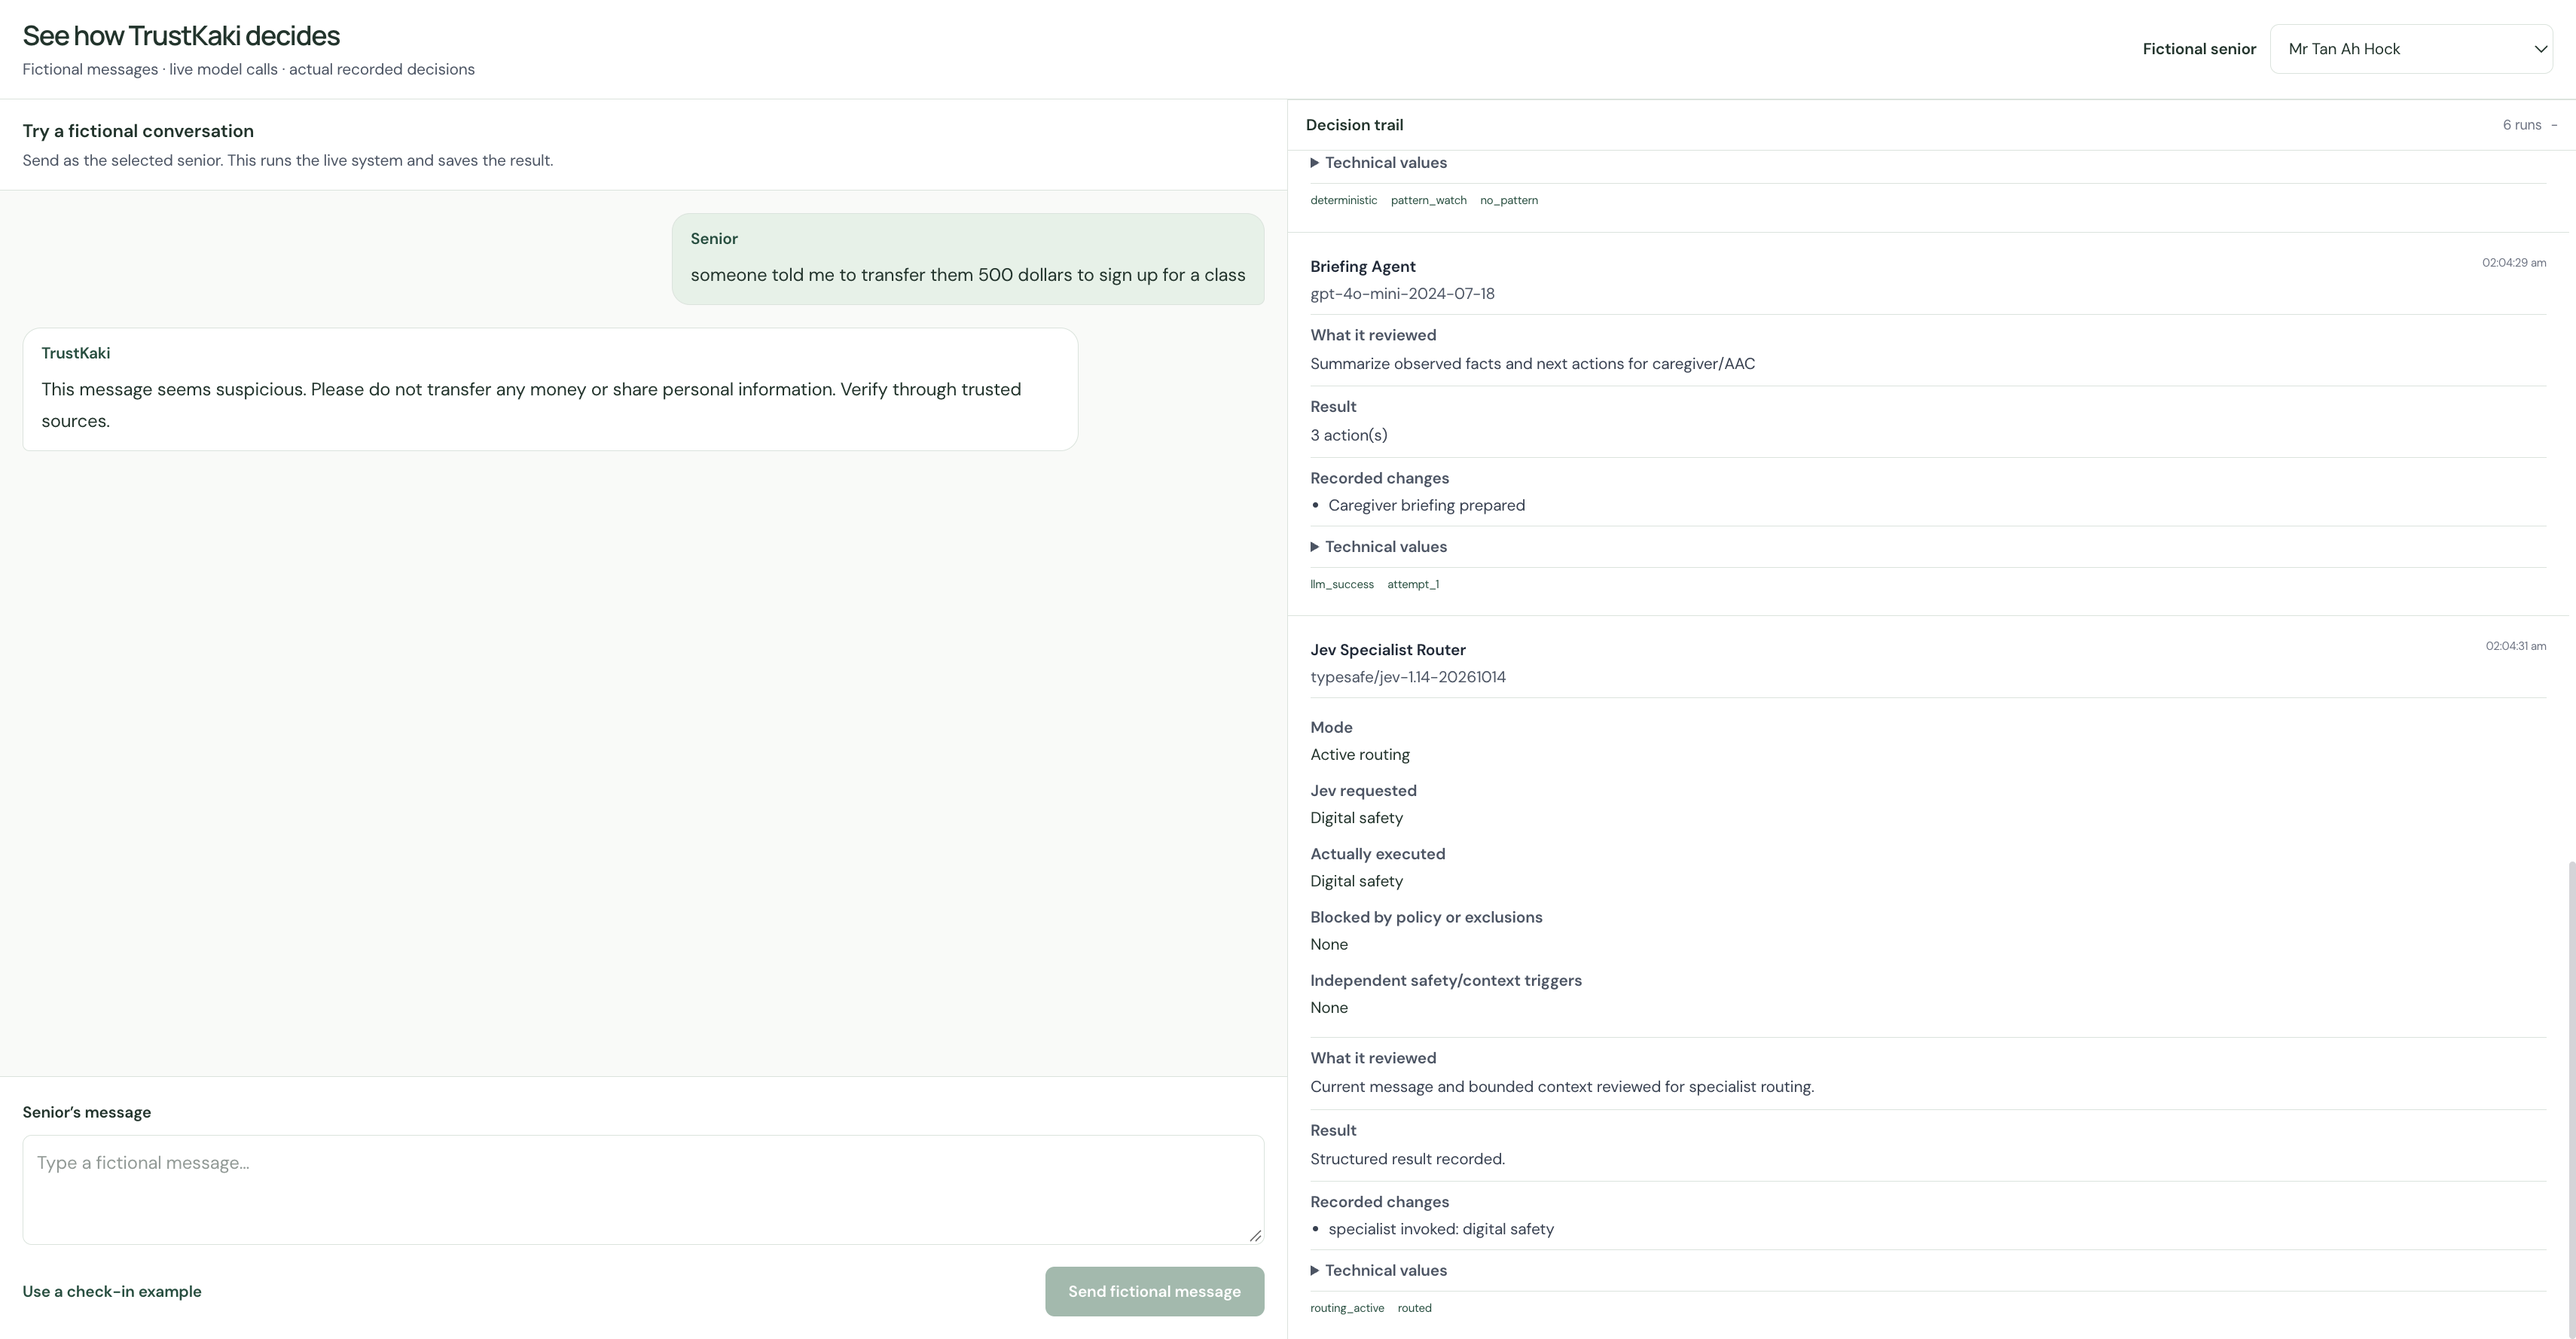
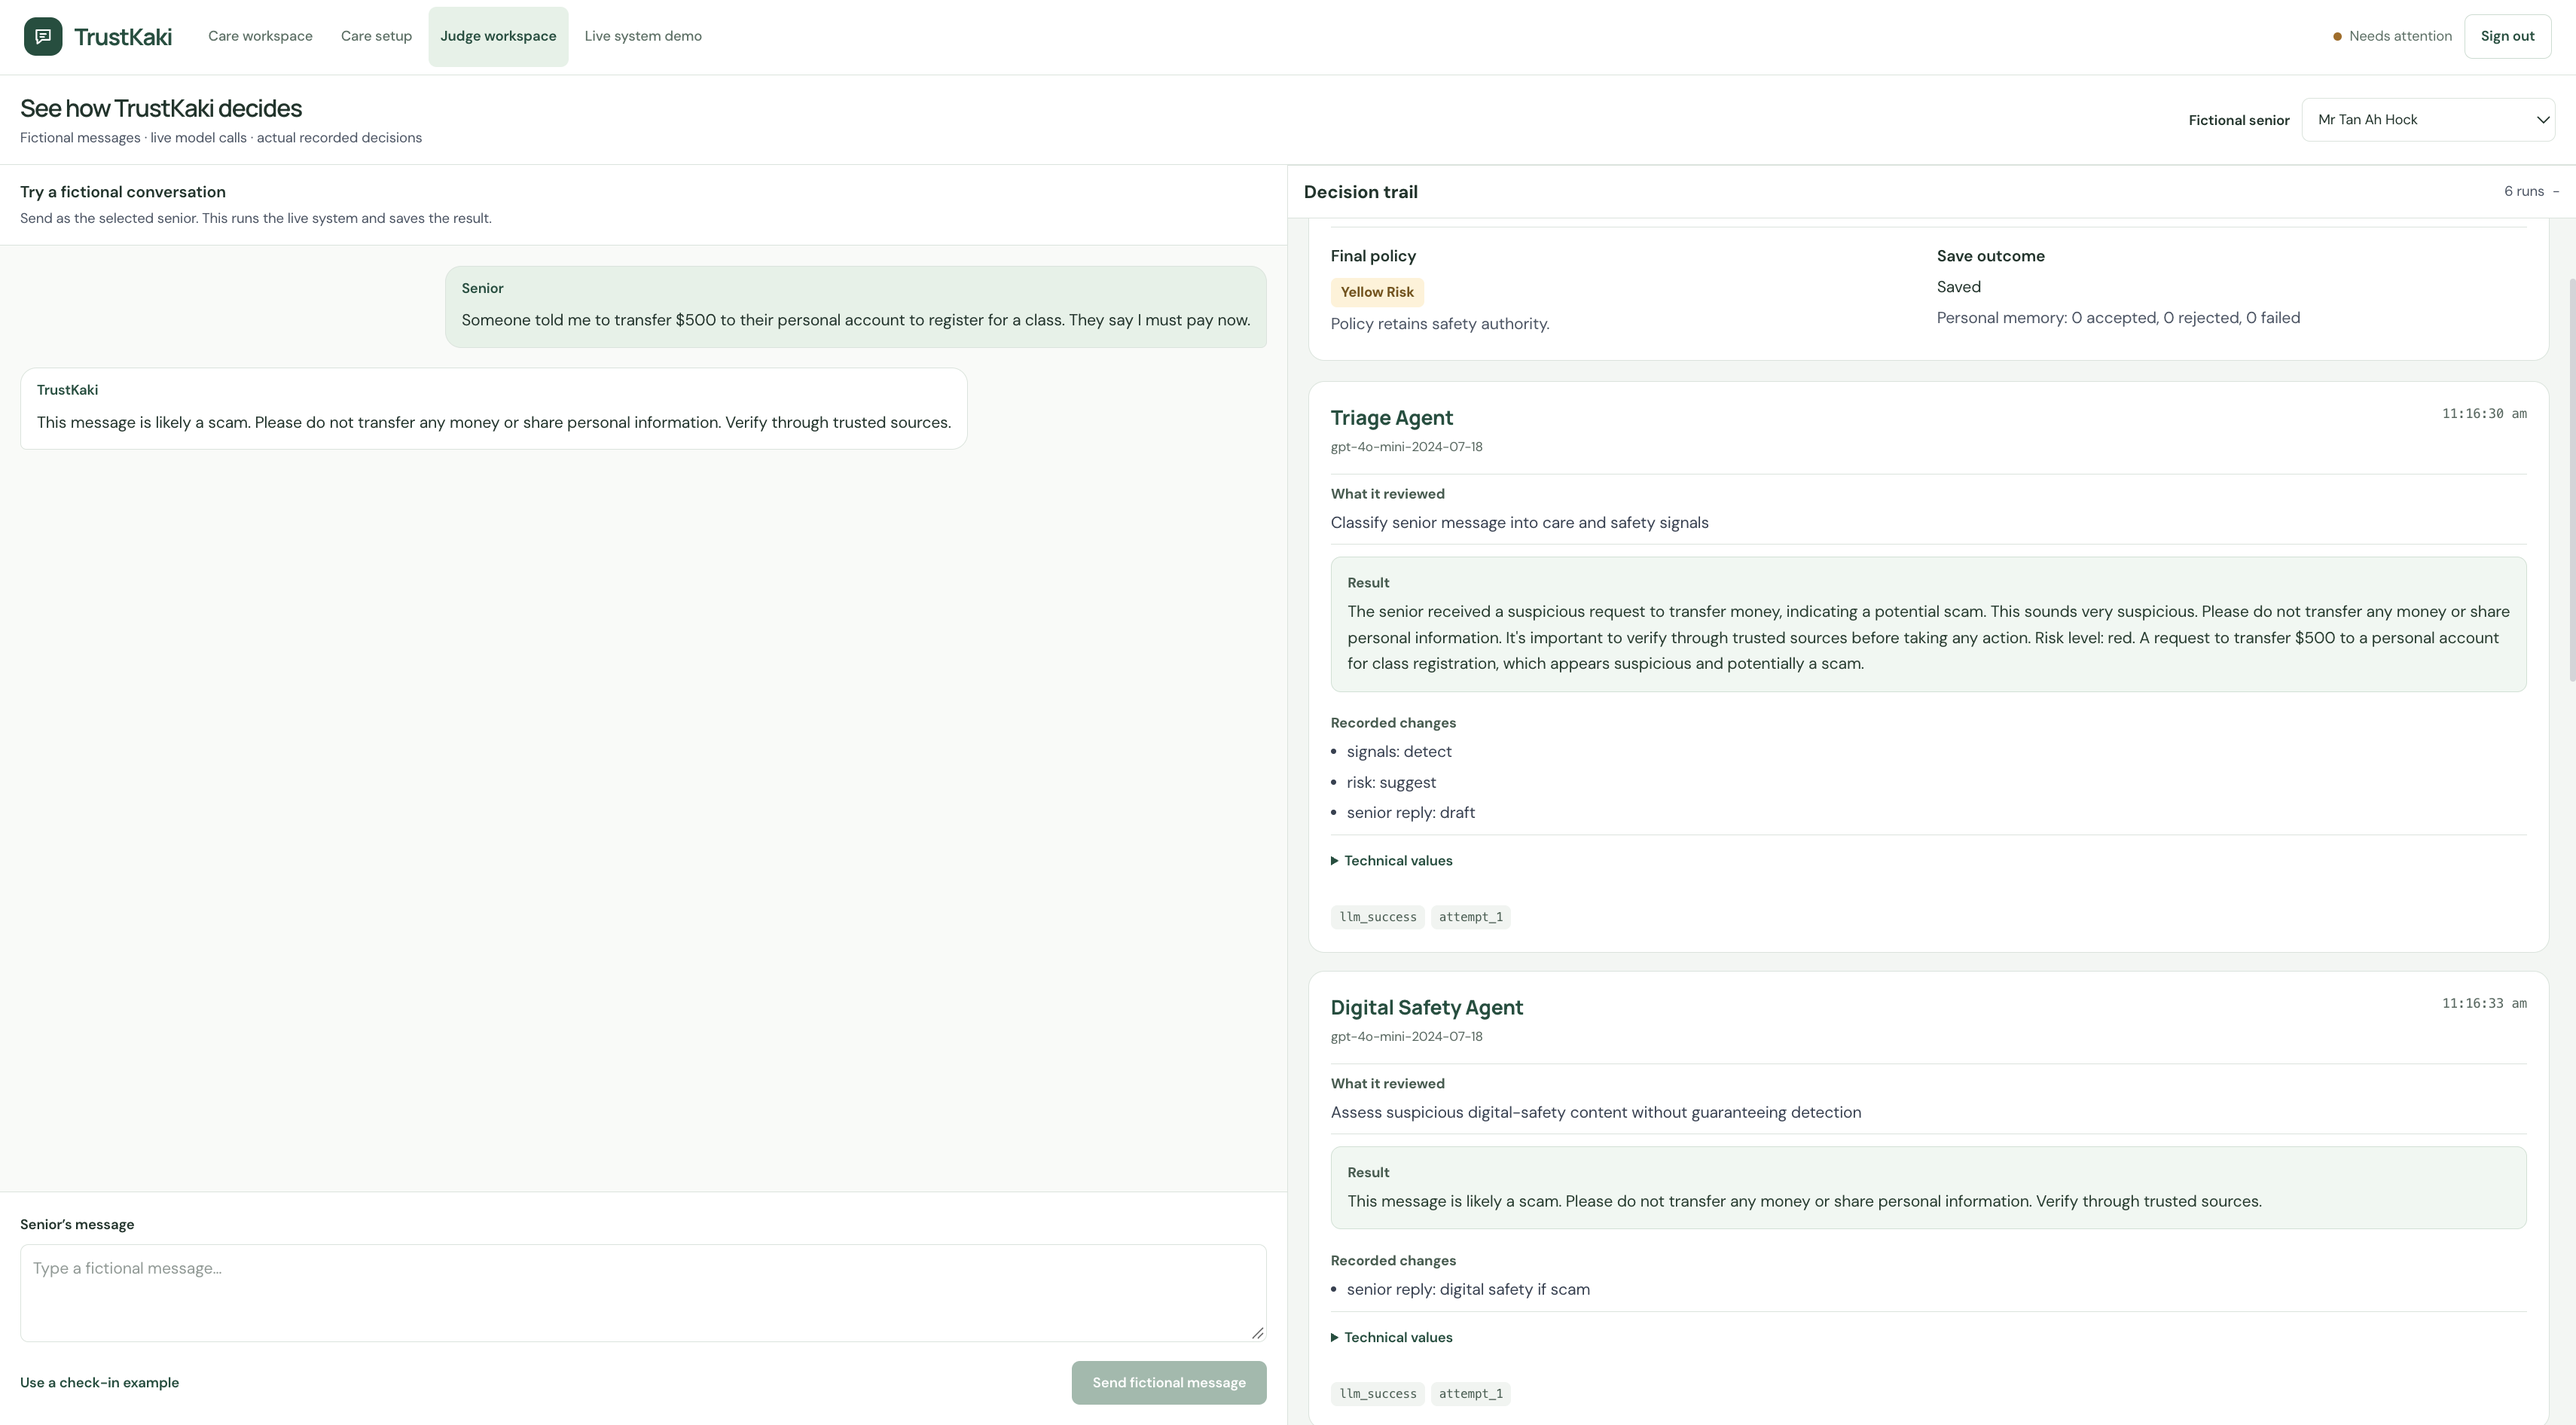
Refresh judge workspace screenshots

diff --git a/trustkaki-web/docs/media/README.md b/trustkaki-web/docs/media/README.md
@@ -23,17 +23,18 @@ For a walkthrough video, place a small linked thumbnail in **Explore the project
 
 ## Product screenshots
 
-Four browser captures from the authenticated fictional demo and two user-supplied messaging captures, collected on **18 October 2026 (SGT)**. These PNGs are unmodified captures: captions and callout tables explain the visible evidence without changing the interface or model output. Click images in the [product tour](../DEMO_GUIDE.md) to inspect their original resolution.
+Five browser captures from the authenticated fictional demo and two user-supplied messaging captures, collected on **18 October 2026 (SGT)**. These PNGs are unmodified captures: captions and callout tables explain the visible evidence without changing the interface or model output. Click images in the [product tour](../DEMO_GUIDE.md) to inspect their original resolution.
 
 | Asset | Capture | Visible evidence |
 | --- | --- | --- |
 | `care-workspace.png` | 01:47 | Priority queue, follow-up reason, next human action and personal context |
 | `four-day-pattern.png` | 01:52 | Cropped timeline of prepared fictional observations across four days |
-| `jev-safety-routing.png` | 02:04 | Actual Jev model, digital-safety request and specialist execution |
-| `rag-personalisation.png` | 02:09 | Retrieved preferences, source/date and a reply using those facts |
+| `jev-safety-routing.png` | 11:17 | Refreshed interface: payment concern, Triage and Digital Safety result |
+| `jev-routing-evidence.png` | 02:04 | Earlier separate run: actual Jev model, digital-safety request and execution |
+| `rag-personalisation.png` | 11:18 | Retrieved preferences, source/date and a reply using those facts |
 | `telegram-conversation.png` | 10:42 | User-supplied demo chat: breakfast/knee check-in, senior reply and acknowledgement |
 | `whatsapp-conversation.png` | 10:42 | User-supplied demo chat: appetite/knee update and a reply mentioning known contacts |
 
-The six images total about **2.03 MiB**. They are documentation evidence, not application assets or exhaustive test results. The timeline includes prepared fictional history; live-model screenshots show individual observed runs, not guaranteed responses. No credentials are included. Source identifiers in the RAG capture belong to fictional demo records.
+The seven images total about **2.48 MiB**. They are documentation evidence, not application assets or exhaustive test results. The timeline includes prepared fictional history; live-model screenshots show individual observed runs, not guaranteed responses. No credentials are included. Source identifiers in the RAG capture belong to fictional demo records.
 
 The messaging screenshots show displayed exchanges, not evidence of current channel provisioning, recurring scheduler activation or a specific memory-retrieval path. The WhatsApp contact-info screenshot is omitted because it shows configuration rather than the product conversation.

diff --git a/trustkaki-web/docs/DEMO_GUIDE.md b/trustkaki-web/docs/DEMO_GUIDE.md
@@ -58,16 +58,18 @@ These are user-supplied fictional demo exchanges captured on 18 October. They do
 
 ## 3. Jev routes a payment concern
 
-[![Live fictional payment concern with Jev requesting digital safety and the specialist actually executing](media/jev-safety-routing.png)](media/jev-safety-routing.png)
+[![Refreshed Judge workspace showing a fictional payment concern, Triage and the Digital Safety Agent result](media/jev-safety-routing.png)](media/jev-safety-routing.png)
 
 | Look here | Visible evidence |
 | --- | --- |
-| **Left · senior message** | Someone requests a $500 transfer to sign up for a class. |
-| **Right · Jev Specialist Router** | Actual model shown: `typesafe/jev-1.14-20261014`, in active routing mode. |
-| **Jev requested / Actually executed** | Both show **Digital safety**, making the routing decision and execution inspectable. |
-| **Left · TrustKaki reply** | Advises pausing payment, protecting personal information and verifying through trusted sources. |
+| **Left · senior message** | An urgent $500 transfer to a personal account for class registration. |
+| **Right · Digital Safety Agent** | The specialist's actual review and selected precautionary reply. |
+| **Top · Final policy** | Yellow risk is the application outcome; Triage's red recommendation does not override it. |
+| **Left · TrustKaki reply** | Advises against transferring money or sharing personal information and recommends verification. |
 
-This is a successful observed routing run. The precaution does not establish that the payment request is fraudulent. Application policy retains final safety authority; model routing can still fail or be wrong.
+**Captured 11:17 in the refreshed interface.** This image shows specialist execution; Jev's routing card is outside the visible area. The [earlier routing capture](media/jev-routing-evidence.png), from a separate run at 02:04, shows `typesafe/jev-1.14-20261014` requesting **Digital safety** and **Actually executed: Digital safety**. It preserves evidence of the router without implying the two captures are the same run.
+
+These are individual observed runs. The precaution does not establish that the payment request is fraudulent. Application policy retains final safety authority; model routing can still fail or be wrong.
 
 [Agent responsibilities and guardrails](ARCHITECTURE.md)
 
